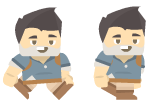
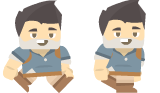
add player walk animation

diff --git a/script.js b/script.js
@@ -9,20 +9,21 @@ https://www.kenney.nl/assets/platformer-characters-1
 https://www.kenney.nl/assets/platformer-art-extended-enemies
 */
 
-/* powerup ideas
-double jump
-slow down
-lasers
-*/
+
+//sprite images
+let playerImg = document.createElement("img");
+playerImg.src = "playerWalk.png";
+let playerSpriteW = 80, playerSpriteH = 93;
+
 
 const gravityAccelY = 70.0;
 let actorSpeed = 0.2
 
 const player = {
 	x: 5,
-	y: 20,
-	width: 2,
-	height: 2,
+	y: 12.7,
+	width: 6,
+	height: 9,
 	velocityY: 0,
 	score: 0
 };
@@ -90,8 +91,8 @@ const baddieThree = {
 let actors = [baddieOne, baddieTwo, baddieThree, pad];
 
 let introComplete = false;
-
-let currentFrame = 0
+let nextActorFrame = 0
+let cycle = 0
 let lastReplace = 200;
 let framesSinceReplace = 0
 
@@ -101,7 +102,7 @@ function draw(deltaTime, time) {
 	if(player.velocityY !== 0) {
 		jump(deltaTime);
 	}
-	drawPlayer(player);
+	drawPlayerSprite(player);
 	if (introComplete == false) {
 		introOnRails();
 		return;
@@ -202,6 +203,20 @@ function drawPlayer() {
 	context.fillRect(player.x, player.y, player.width, player.height);
 }
 
+function drawPlayerSprite() {
+	context.drawImage(playerImg,
+					  //source rectangle
+					  cycle * playerSpriteW, 0, playerSpriteW, playerSpriteH,
+					  //destination rectange. -1 to compensate for blank left of sprite
+					  player.x-1, player.y, playerSpriteW/10, playerSpriteH/10);
+	nextActorFrame++
+	if (nextActorFrame == 8) {
+		cycle = (cycle + 1) % 2
+		nextActorFrame = 0
+	}
+}
+
+
 function drawBaddie(baddie) {
 	context.fillStyle = '#EE6C4D';
 	context.fillRect(baddie.x, baddie.y, baddie.width, baddie.height);
@@ -254,8 +269,8 @@ function jump(deltaTime) {
 	let timeInSec = deltaTime/1000
 	player.velocityY += gravityAccelY * timeInSec;
 	player.y += player.velocityY * timeInSec;
-	if (player.y > 20) {
-    	player.y = 20; // assuming the ground is at height 20
+	if (player.y > 12.7) {
+    	player.y = 12.7; // assuming the ground is at height 20
     	player.velocityY = 0;
 	}
 }
